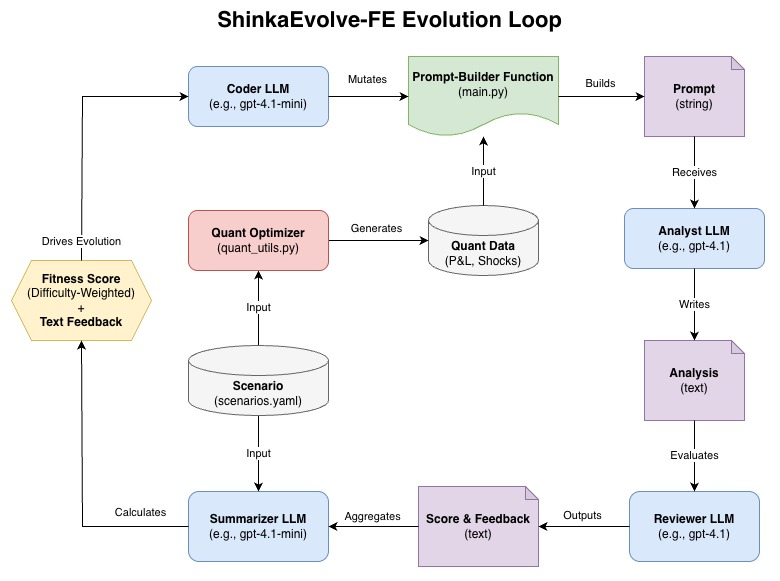
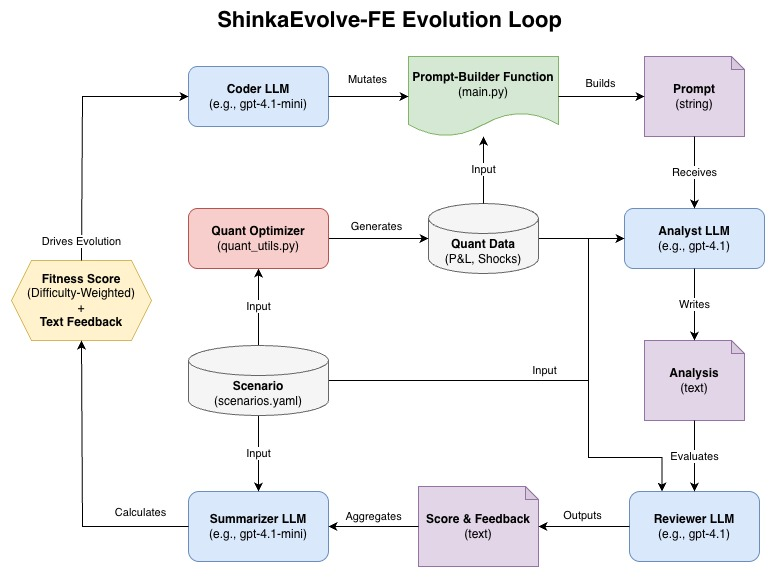
update workflow diagram

diff --git a/README.md b/README.md
@@ -42,6 +42,8 @@ The architecture is intentionally minimal but extensible.
 
 # Architecture Overview
 
+![Architecture Diagram](examples/nikkei_shock/images/ShinkaEvolve-FE_Workflow.jpg)
+
 The system consists of five roles:
 
 1. **Quant Optimizer**
